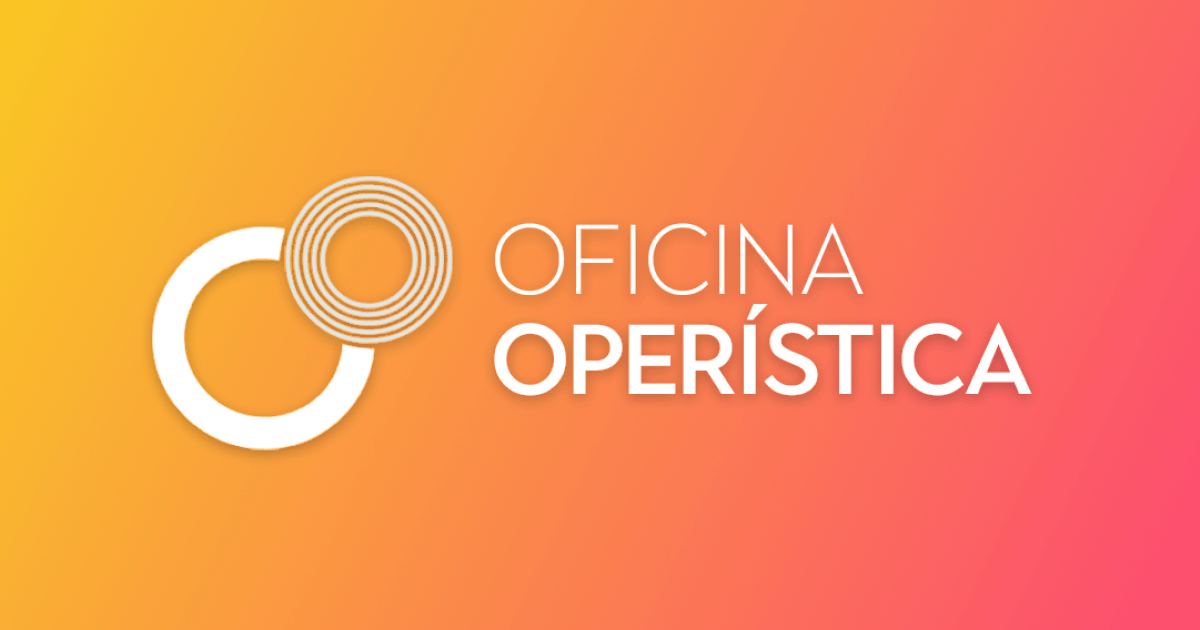
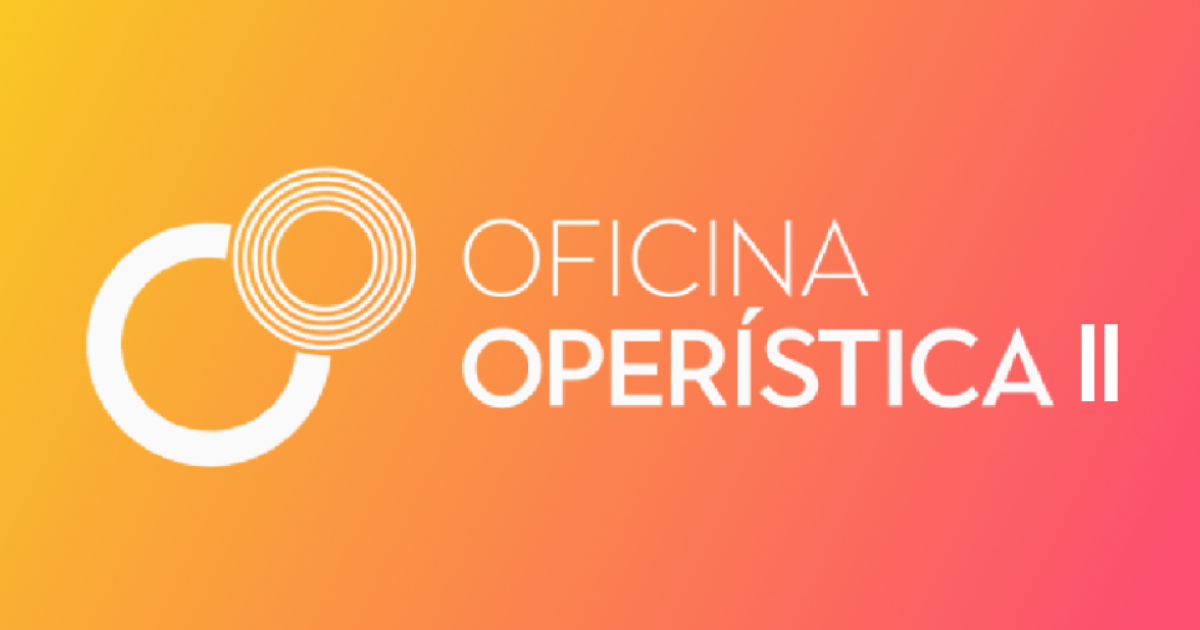
fix

Changed region(s): [[0.0617, 0.2413, 0.74, 0.754], [0.37, 0.4825, 0.9558, 0.6635]]

diff --git a/index.html b/index.html
@@ -5,25 +5,25 @@
         <meta http-equiv="X-UA-Compatible" content="IE=edge">
         <meta name="viewport" content="width=device-width, initial-scale=1.0">
         <link rel="stylesheet" href="style.css">
-        <title>Oficina Operística</title>
+        <title>Oficina Operística II</title>
         <meta name="language" content="pt-BR">
         <meta property="og:type" content="website">
-        <meta property="og:title" content="Oficina Operística">
-        <meta property="og:description" content="Oficina Operística">
+        <meta property="og:title" content="Oficina Operística II">
+        <meta property="og:description" content="Oficina Operística II">
         <meta property="og:image" content="https://oficinaoperistica.sonettoproducoes.com/img/thumbnail.png">
         <meta property="og:url" content="https://oficinaoperistica.sonettoproducoes.com">
         <meta property="og:site_name" content=""/>
         <meta property="fb:admins" content=""/>
         <meta name="twitter:card" content="summary_large_image">
         <meta name="twitter:url" content="https://oficinaoperistica.sonettoproducoes.com">
-        <meta name="twitter:title" content="Oficina Operística">
-        <meta name="twitter:description" content="Oficina Operística">
+        <meta name="twitter:title" content="Oficina Operística II">
+        <meta name="twitter:description" content="Oficina Operística II">
         <meta name="twitter:image" content="https://oficinaoperistica.sonettoproducoes.com/img/thumbnail.png">
         <meta name="author" content="">
         <meta name="creator" content="">
         <meta name="publisher" content="">
-        <meta name="description" content="Oficina Operística">
-        <meta name="copyright" content="© 2023 Oficina Operística"/>
+        <meta name="description" content="Oficina Operística II">
+        <meta name="copyright" content="© 2025 Oficina Operística II"/>
         <meta name="keywords" content="">
         <meta name="rating" content="general"/>
         <meta name="robots" content="index, follow">
